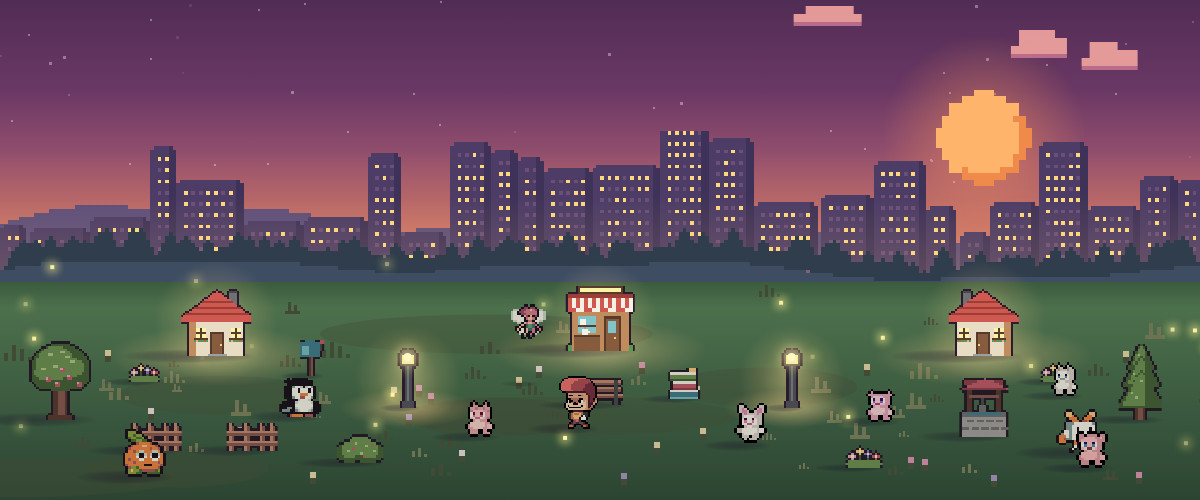
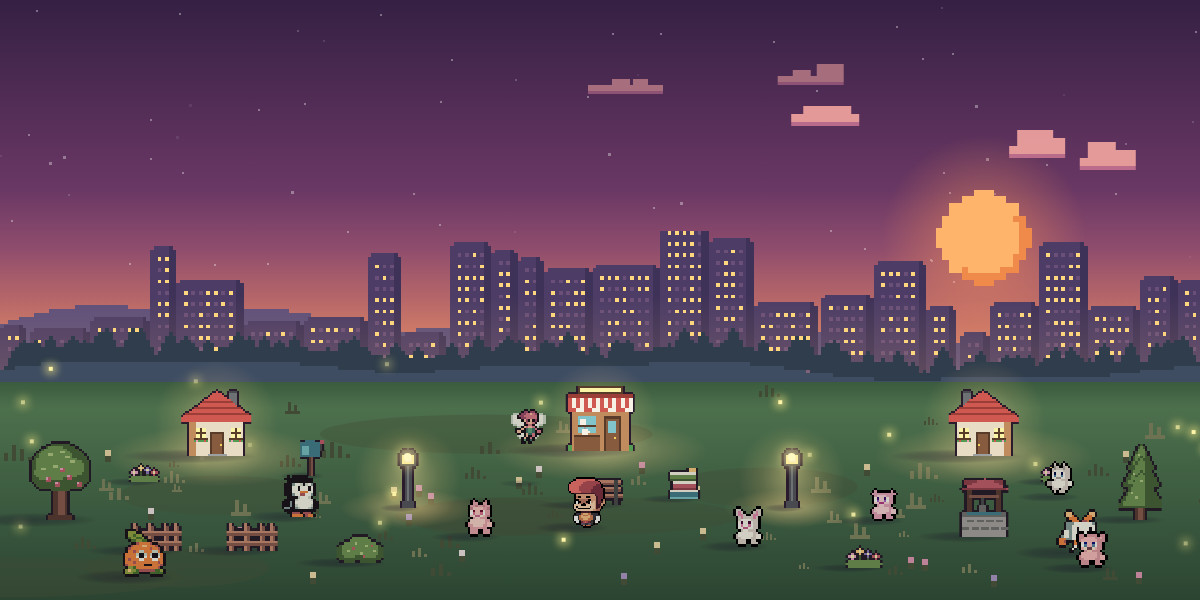
Stop the mountain peaks being sliced off flat on wide screens
The mountain layer fills the screen width, so give it enough height for
the whole drawing (capped at half the screen). Retake the home page
village screenshots with the full peaks in view.

Claude-Session: https://claude.ai/code/session_01X9ZeUt21aSCgSnopdrybZG

diff --git a/site/src/workspace/village/Scenery.tsx b/site/src/workspace/village/Scenery.tsx
@@ -45,7 +45,16 @@ function Mountains({ sky, lift, height = '36vh' }: { sky: Sky; lift?: string; he
     return { base: skyline(heights, H), shade: columns(shaded), snow: columns(caps) };
   }, []);
   return (
-    <svg className="absolute inset-x-0 w-full" style={{ bottom: horizon(lift), height }} viewBox={`0 0 ${W} ${H}`} preserveAspectRatio="xMidYMax slice" shapeRendering="crispEdges" aria-hidden>
+    // The drawing fills the screen width, so it's W:H wide; give it at least that much
+    // height (H/W of the width) or the peaks get sliced off flat on wide screens.
+    <svg
+      className="absolute inset-x-0 w-full"
+      style={{ bottom: horizon(lift), height: `min(max(${height}, ${(H / W) * 100}vw), 50vh)` }}
+      viewBox={`0 0 ${W} ${H}`}
+      preserveAspectRatio="xMidYMax slice"
+      shapeRendering="crispEdges"
+      aria-hidden
+    >
       <path d={base} fill={sky.mountain} style={transition} />
       <path d={shade} fill={sky.mountainShade} style={transition} />
       <path d={snow} fill={sky.snow} style={transition} />
